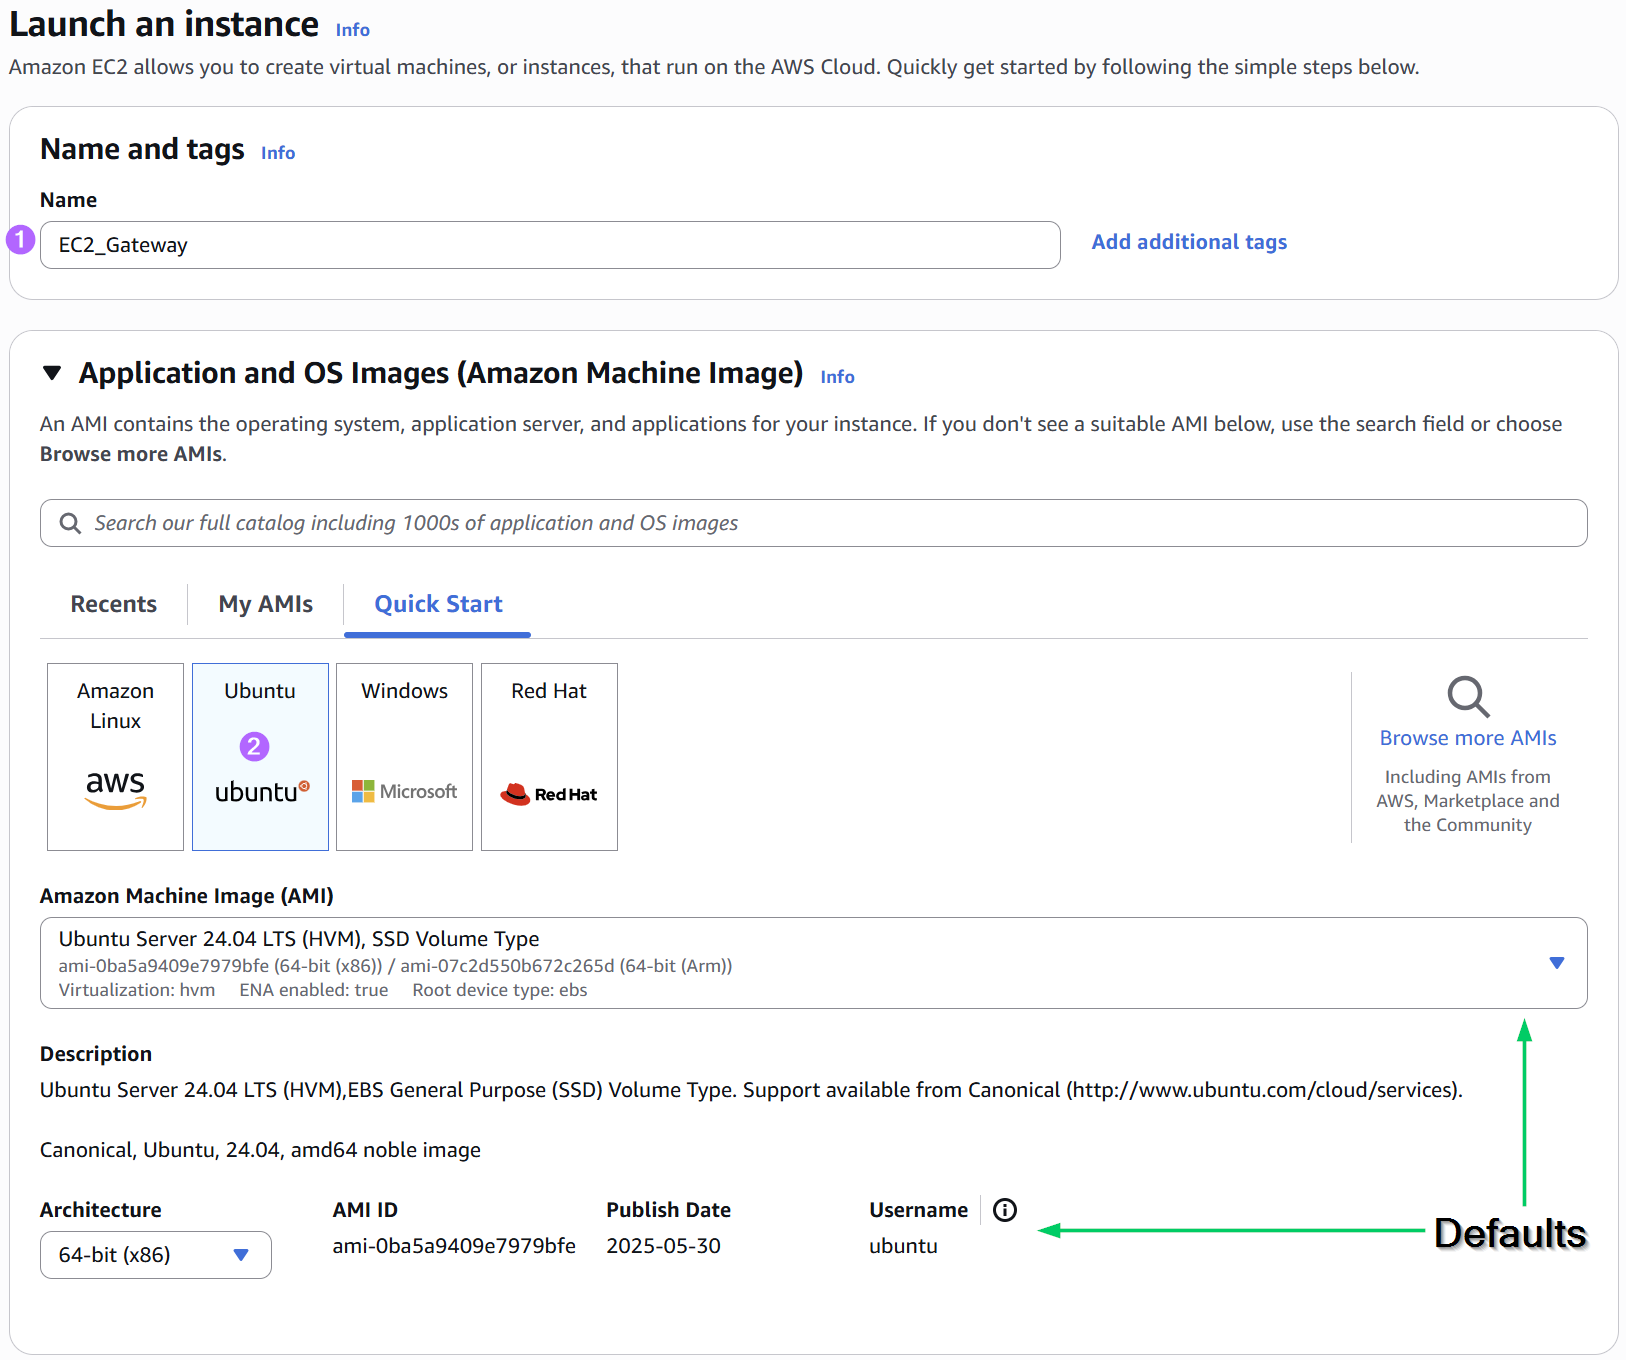
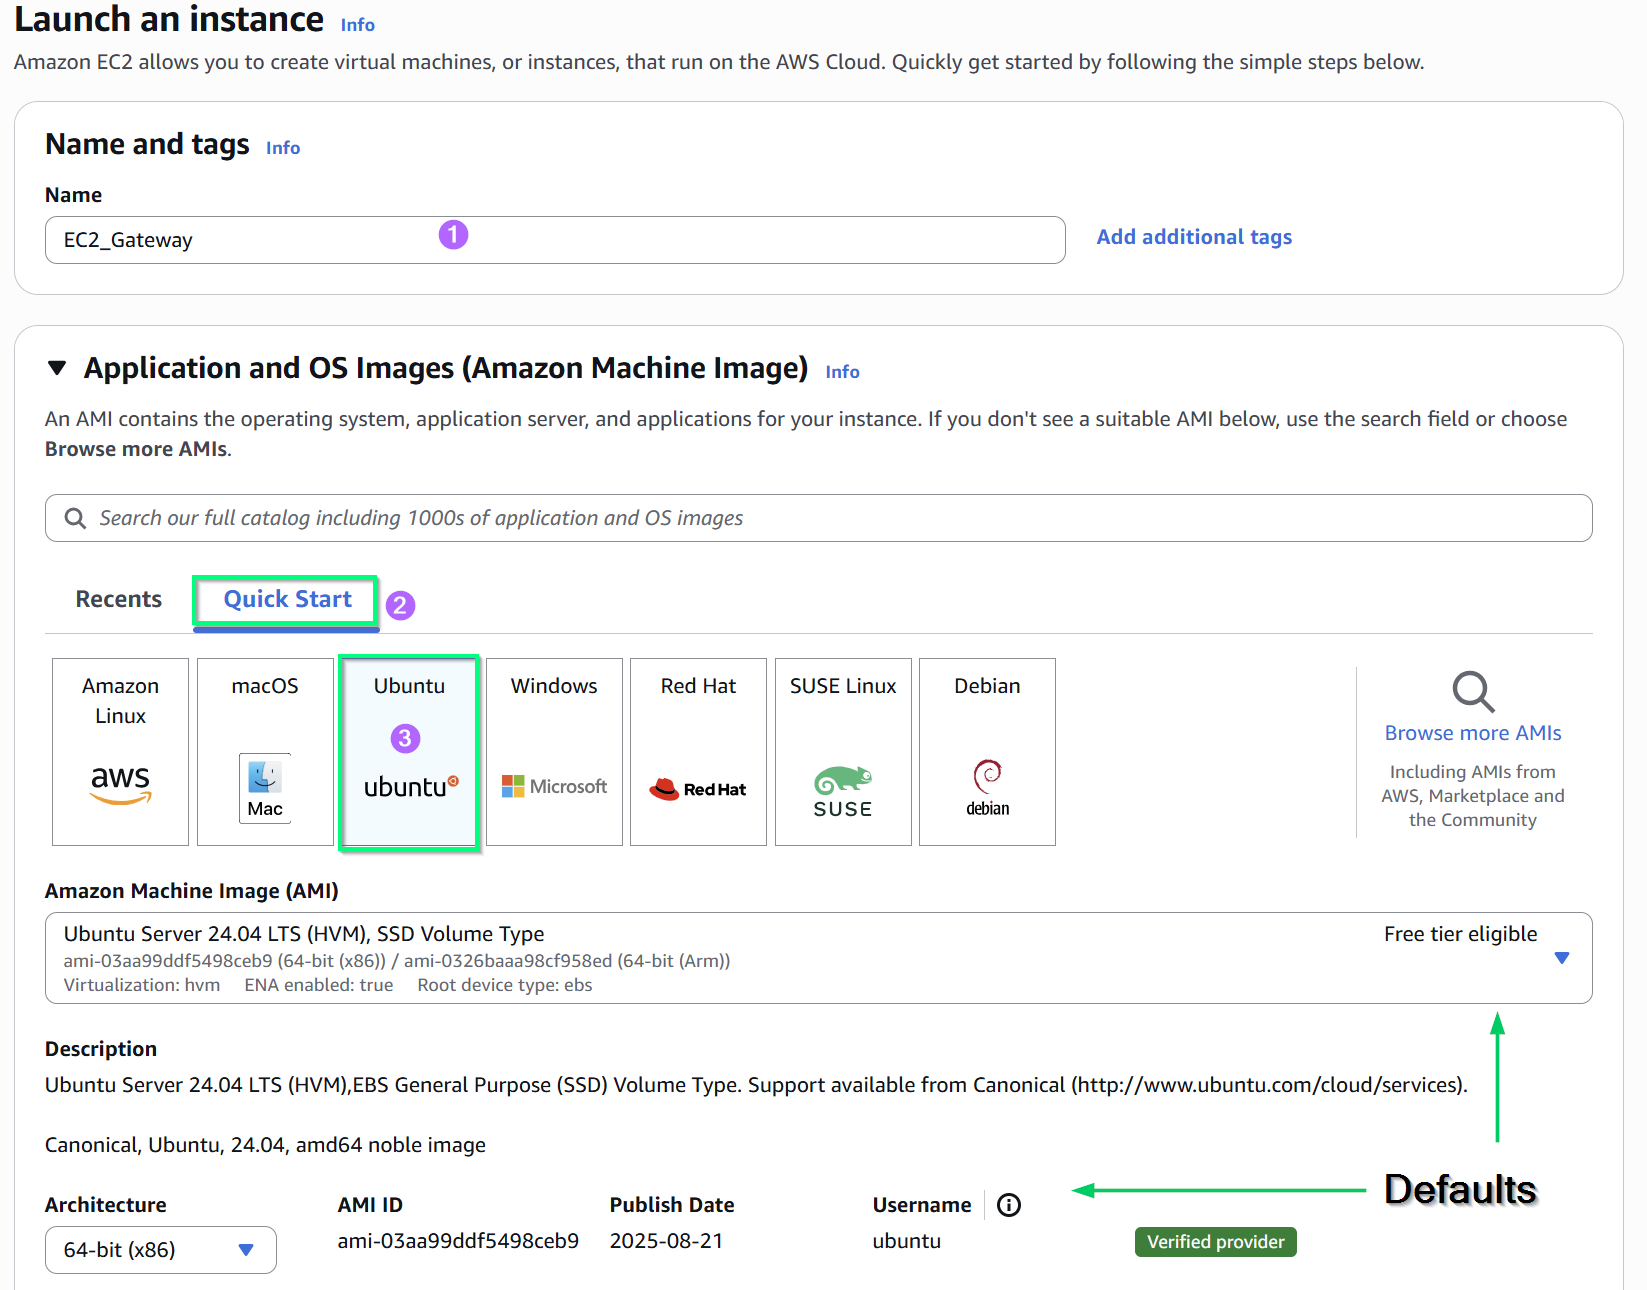
Work on 10-23-2025

diff --git a/Projects/SDWAN/SD - WAN Setup (Software Defined - Wide Area Network).md b/Projects/SDWAN/SD - WAN Setup (Software Defined - Wide Area Network).md
@@ -97,6 +97,16 @@ Although the set of instructions are separated by component, following this inst
 
 Certain names within this setup documentation may differ from existing names and naming schemes in existing COSMIAC-RAPID Lab Environment infrastructure. This may be due to a premature naming scheme, a lack thereof, or missing/lacking access to related systems and/or lacking access to communication with associated personnel that have access to the system.
 
+Things to have at the ready before you start:
+1. Your StarLink Public IP
+   For the COSMIAC-RAPID Lab Environment, this was `143.105.158.123`
+   
+2. Your EC2's Elastic IP (Which is its public IP)
+   For the COSMIAC-RAPID Lab Environment, this was `13.218.134.192`
+   
+3. The Public IP of your Palo Alto Firewall
+   For the COSMIAC-RAPID Lab Environment, this was `138.199.102.114`
+
 ***PLEASE READ THE ENTIRE STEP BEFORE ENTERING A COMMAND***
 
 ## AWS Setup
@@ -137,6 +147,10 @@ This section will first create a VPC where you will then set up your security gr
 6. Click on the `Create subnet` button to finish creating the subnet.
 #### Security Group Setup
 
+Security Groups in AWS as stated above, act as sort of instance-based virtual firewalls. They apply specific policies that can apply to one specific instance in your VPC, or multiple instances at the same time if there is more than one service that needs the same rules. These rules are **stateful**, meaning that any connection made from an internal source (within the VPC that has the associated security group attached) will implicitly allow return traffic that utilizes that same connection.
+
+Now, while the rules are stateful, we will still explicitly allow some services to ensure their functionality through the fabric. 
+
 1. In the VPC Console Menu, open the dashboard using the Hamburger icon menu if the left sidebar has not already been opened, scroll down to the `Security Group` option, and click on it. Afterwards, click on the `Create security group` button at the top right of the screen. ![[Click_Create_SG.png]]
    
 2. Name your Security Group.
@@ -145,15 +159,112 @@ This section will first create a VPC where you will then set up your security gr
 
 5. The primary goal is to allow the necessary inbound traffic so that SD-WAN functionality is unimpeded. Click on `Add rule` in the `Inbound rules` Section. There are multiple rules that need to be added, which will be listed below. ![[SG_Add_Rule.png]]
    
-	1. `DTLS` - Choose `Custom UDP` under `Type`, input `12346-12445` under `port range`, and `Custom` under the `Source`. The `Source` is the IP that the traffic will be coming from. This source will be from your Control Plane, which in the COSMIAC-RAPID Lab Environment was hosted on the ESXi, behind the Palo Alto Firewall's Public IP: `138.199.102.114`. Note that the `Source` has to be denoted in CIDR Block format, so the input here for the COSMIAC-RAPID Lab Environment would be `138.199.102.114/32`. `Description` is optional, but assists in identifying rules and reasonings later on. The resulting rule should look similar to the below. ![[DTLS_SG.png]]
-	2. TLS - Choose `Custom TCP` under`Type`, input `23456-24757` under `port range`, and `Custom` under the `Source`. The `Source` is the IP that the traffic will be coming from. This source will be from your Control Plane, which in the COSMIAC-RAPID Lab Environment was hosted on the ESXi, behind the Palo Alto Firewall's Public IP: `138.199.102.114`. Note that the `Source` has to be denoted in CIDR Block format, so the input here for the COSMIAC-RAPID Lab Environment would be `138.199.102.114/32`. `Description` is optional, but assists in identifying rules and reasonings later on. The resulting rule should look similar to the below. ![[TLS_SG.png]]
-	3. IPsec (No Nat) - Choose `Custom UDP` under `Type`, input `500` under `port range`, and `Custom` under the `Source`. The `Source` is the IP that the traffic will be coming from. This source will be from your Control Plane, which in the COSMIAC-RAPID Lab Environment was hosted on the ESXi, behind the Palo Alto Firewall's Public IP: `138.199.102.114`. Note that the `Source` has to be denoted in CIDR Block format, so the input here for the COSMIAC-RAPID Lab Environment would be `138.199.102.114/32`. `Description` is optional, but assists in identifying rules and reasonings later on. The resulting rule should look similar to the below.  
-6. 
-   
+   The structure is as follows:
+   - Type: Type of communication
+   - Protocol: Internet protocol used to facilitate the type of communication
+   - Port Range: Range of ports the communication encompasses.
+   - Source: Origin of network traffic associated with the communication. This is in the form of an IP, which has to be denoted in CIDR Block Format (x.x.x.x/s)
+   - Description: Optional field utilized for a descriptor for the rule that was made.
+
+	1. `DTLS` 
+	    - Type: `Custom UDP` 
+	    - Port Range: `12346-12445` 
+	    - Source: `Custom`, Palo Alto Firewall Public IP - (For COSMIAC-RAPID Lab Environment, this value was `138.199.102.114/32`) 
+	      The resulting rule should look similar to the below. ![[DTLS_SG.png]]
+	      
+	2. TLS 
+		- Type: `Custom TCP` 
+	    - Port Range: `23456-24757` (This is the range used for the COSMIAC-RAPID Lab Environment, though this could very well be different in another implementation. Ranges for TLS were slightly confusing and hard to find documentation for) 
+	    - Source: `Custom`, Palo Alto Firewall Public IP - (For COSMIAC-RAPID Lab Environment, this value was `138.199.102.114/32`) 
+	      The resulting rule should look similar to the below. ![[TLS_SG.png]]
+	      
+	3. IPSec (No NAT)
+		- Type: `Custom UDP` 
+	    - Port Range: `500` 
+	    - Source: `Custom`, StarLink Public IP - (For COSMIAC-RAPID Lab Environment, this value was `143.105.158.123/32`) 
+	      The resulting rule should look similar to the below. ![[IPSec_NoNat_SG.png]]
+	      
+	4. IPSec (NAT)
+		- Type: `Custom UDP` 
+	    - Port Range: `4500` 
+	    - Source: `Custom`, StarLink Public IP - (For COSMIAC-RAPID Lab Environment, this value was `143.105.158.123/32`) 
+	      The resulting rule should look similar to the below. ![[IPSec_NAT_SG.png]]
+	      
+	5. BGP
+		- Type: `Custom UDP` 
+	    - Port Range: `3784-3785` 
+	    - Source: `Custom`, StarLink Public IP - (For COSMIAC-RAPID Lab Environment, this value was `143.105.158.123/32`) 
+	      The resulting rule should look similar to the below. ![[BGP_SG.png]]
+	      
+	6. BGP (Multi-Hop)
+		- Type: `Custom UDP` 
+		- Port Range: `4784` 
+	    - Source: `Custom`, StarLink Public IP - (For COSMIAC-RAPID Lab Environment, this value was `143.105.158.123/32`) 
+	      The resulting rule should look similar to the below. ![[BGP_Multihop_SG.png]]
+	      
+	7. SSH (From Company Network (LaunchPad @ Cosmiac))
+		- Type: `Custom UDP` 
+		- Port Range: `4784` 
+	    - Source: `Custom`, Your Company's Public IP - (For COSMIAC-RAPID Lab Environment, this value was `138.199.102.101/32`) 
+	      The resulting rule should look similar to the below. ![[SSH_LaunchPad_SG.png]]
+	8. SSH (From Palo Alto Firewall)
+		- Type: `Custom UDP` 
+		- Port Range: `4784` 
+	    - Source: `Custom`, Palo Alto Firewall Public IP - (For COSMIAC-RAPID Lab Environment, this value was `143.105.158.123/32`) 
+	      The resulting rule should look similar to the below. ![[SSH_PAF_SG.png]]
+6. (Optional) Make a tag to associate your security group with, for housekeeping and auditing purposes.
+7. Finish creating your security group by scrolling down and clicking `Create security group`. ![[Finish_Create_SG.png]]
 
 ### EC2 Instance Launch Configuration
 
+AWS EC2, otherwise known as Amazon Web Services Elastic Compute Cloud, is a service provided by AWS that allows you to host an instance of a machine on the cloud. It is essentially a virtual machine provisioning service that allows you to deploy an instance, or multiple instances, of a particular machine image and run your services (web or otherwise) on it, while AWS Hosts the physical hardware.
+
+1. Navigate to the `EC2` console by using the search bar at the top of the Management Console webpage. ![[Search_EC2.png]]
+   
+2. Open the EC2 Console Dashboard using the hamburger icon at the top left of the webpage if not already open, and then click on the `Instances` option in the sidebar. Then, click on the `Launch instances` button at the top right of the webpage. ![[Launch_Instance.png]]
+   
+3. Name the EC2 instance according to your naming scheme/standards, or use the example below.
+4. Click on the `Quick Start` tab if not already on it, and then choose the `Ubuntu` AMI. It should default to an Ubuntu Server 24.04 image, but if not, choose an Ubuntu 24.04 image. Leave the rest of the settings as defaults, unless you see discrepancies with the defaults in your setup vs the example below. ![[EC2_Config_1.png]]
+   
+5. Choose an instance type as depicted by your setup instructions from associated personnel. If wishing to mirror the COSMIAC-RAPID Lab Environment, choose `c6id.large`. ![[Select_Instance_Type.png]]
+   
+6. If you do not already have a designated test/lab key pair from associated personnel, follow the below instructions to make a key pair specific for this SD WAN Configuration. Otherwise, select your preferred key pair. This is the way you will gain SSH access to the instance.
+	1. Click on the `Create new key pair` button. This will bring up the key pair creation window. ![[Create_Key_Pair.png]]
+	2. Name your new Key Pair according to your naming scheme, or use the example below.
+	3. Choose `RSA` as the `Key pair type`.
+	4. Choose `.pem` as the Private key file format. This is important as this is the private key format that SSH Utilizes.
+	5. Create the key pair using the `Create key pair` button ![[Confirm_KP.png]]
+
+7.  Reload available key pairs by clicking on the clockwise circle arrow, and select your preferred key pair. ![[Select_KP.png]]
+   
+8. In the `Network settings` section, first click on the `Edit` Button at the top right. Afterwards, a more granular set up section should replace the `Network settings` section. ![[Edit_Network_Settings.png]]
+   
+9. Choose the VPC created earlier. This will give you access to the subnets and security groups associated with the VPC.![[Select_VPC.png]]
+10. If your VPC was preconfigured for you, or you are selecting an existing/in the default VPC, you may have access to more subnets than what you created. Choose the subnet that you created earlier in this documentation if one was not provided for you by associated personnel. ![[Select_Subnet.png]]
+
+11. Enable the `Auto-assign public IP` setting. ![[Enable_AutoAssign_IP.png]]
+
+12. Click on `Select existing security group`, and then choose the Security Group(s) that you created earlier/were instructed to use. ![[Select_SG.png]]
+
+13. Leave the rest as default. review the summary at the far right of the webpage, and confirm that the settings are correct, then click `Launch instance`. ![[Launch_EC2.png]]
+
+### EC2 Network Interface Configuration
+
+The AWS setup portion of this instruction set was done within AWS Commercial **Cloud**, not on AWS Commercial **Outpost**. This section will be updated in the future, as the network configuration is different on the outpost than in cloud, as all the cloud interfaces are virtualized and provisioned by AWS themselves, while an AWS Outpost is a physical server hosted on-prem (In this case, in the COSMIAC-RAPID Lab Environment at COSMIAC LaunchPad), and the on-prem outpost has more Network Interface configurability as we have access to the physical hardware provided by AWS.
+ 
 ### EC2 Instance Linux Box Configuration
+
+1. SSH into the EC2 instance with a machine/device on one of the allowed networks from the Security group using the command:
+   `ssh -i <your_key_pair_file.pem> ubuntu@<youe_elastic_ip_here>`
+   For example, the command to SSH into the COSMIAC-RAPID EC2 Instance was:
+   `ssh -i cosmiac-rapid-ec2.pem ubuntu@13.218.134.192`
+   **NOTE**: That is not the actual name of the file. It is obfuscated for security reasons.
+2. When in the EC2 instance, run the following commands:
+	1. `sudo iptables -A FORWARD -i ens6 -o ens5 -j ACCEPT`
+	2. `sudo iptables -A FORWARD -i ens5 -o ens6 -m state --state RELATED,ESTABLISHED -j ACCEPT`
+	3. `sudo iptables -t nat -L POSTROUTING -n -v`
+	4. `sudo iptables -t nat -L POSTROUTING -o ens5 -j MASQUERADE`
+	**NOTE**: `ens5` and `ens6` are likely to be different in your configuration. For reference, `ens5` is the WAN facing/Public/Untrust Zone (in other words, the interface used to access public internet), and `ens6` is the LAN facing/private/Trusted Zone (in other words, the interface for the LAN interface, where your client devices connect to. In this case, our only 'client' is the virtual edge router.)
 
 ## ESXi Hypervisor
 
